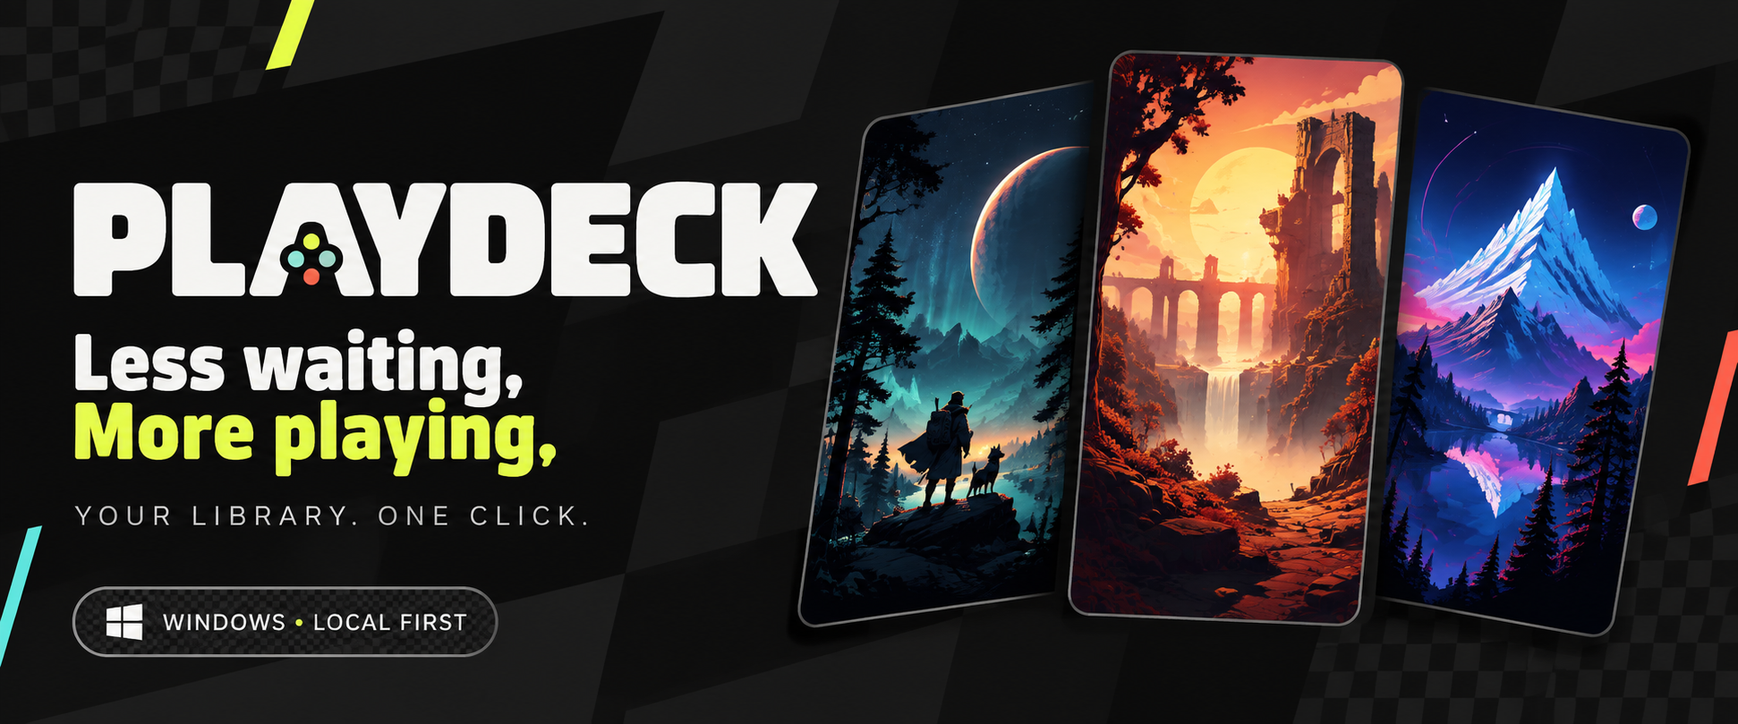
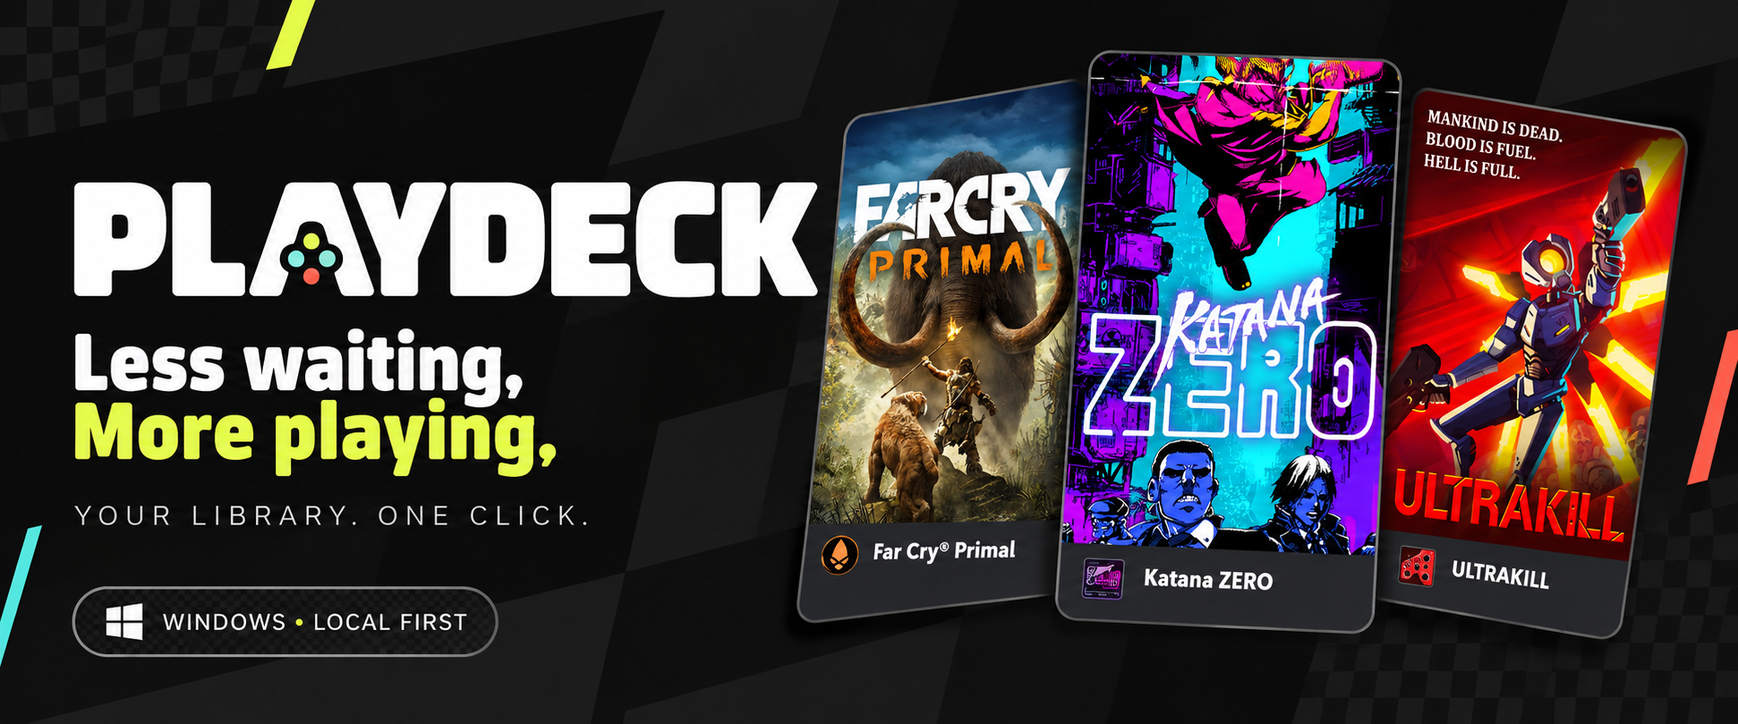
Present Playdeck 7.0.7 with actual library screenshots and refreshed release guide

diff --git a/README.md b/README.md
@@ -1,136 +1,179 @@
-<p align="center"><img src="docs/hero.png" alt="Playdeck — Less waiting. More playing." width="100%"></p>
+<p align="center"><img src="docs/hero.png" alt="Playdeck — Less waiting. More playing. Your library. One click." width="100%"></p>
 
 <p align="center">
-<a href="https://github.com/DopaLab/playdeck/releases/latest"><img src="https://img.shields.io/github/v/release/DopaLab/playdeck?style=for-the-badge&color=E1FF46&labelColor=222222" alt="Latest release"></a>
-<img src="https://img.shields.io/badge/Windows-x64-76DDD3?style=for-the-badge&labelColor=222222" alt="Windows x64">
-<img src="https://img.shields.io/badge/Native-WPF-FF957F?style=for-the-badge&labelColor=222222" alt="Native WPF">
-<a href="https://ko-fi.com/fgtranime"><img src="https://img.shields.io/badge/Support-Ko--fi-FF5E5B?style=for-the-badge&labelColor=222222" alt="Support on Ko-fi"></a>
+<a href="https://github.com/DopaLab/playdeck/releases/tag/v7.0.7"><img src="https://img.shields.io/badge/PLAYDECK-7.0.7-E1FF46?style=for-the-badge&labelColor=202025" alt="Playdeck 7.0.7"></a>
+<img src="https://img.shields.io/badge/WINDOWS-x64-76DDD3?style=for-the-badge&labelColor=202025" alt="Windows x64">
+<img src="https://img.shields.io/badge/BUILT-NATIVE-FF957F?style=for-the-badge&labelColor=202025" alt="Native Windows app">
+<a href="https://ko-fi.com/fgtranime"><img src="https://img.shields.io/badge/SUPPORT-KO--FI-C7B7FF?style=for-the-badge&labelColor=202025" alt="Support on Ko-fi"></a>
 </p>
 
-<h3 align="center">Your games deserve a better shelf.</h3>
-<p align="center">A personal Windows launcher with bold cover cards, instant favorites and local play history.<br>No account. No folder crawler. No always-running launcher.</p>
-<p align="center"><b><a href="https://github.com/DopaLab/playdeck/releases/latest/download/Playdeck-Setup-6.4.0.exe">↓ Install Playdeck</a> · <a href="https://github.com/DopaLab/playdeck/releases/latest/download/Playdeck-v6.4.0-win-x64.zip">Portable ZIP</a> · <a href="#your-library-in-motion">See the app</a></b></p>
+<h2 align="center">Your collection should make you want to play.</h2>
+<p align="center">Bold covers. One-click launching. A history worth keeping.<br><b>A personal Windows game launcher that gets out of the way when the game begins.</b></p>
+<p align="center"><a href="https://github.com/DopaLab/playdeck/releases/download/v7.0.7/Playdeck-Setup-7.0.7.exe"><img src="https://img.shields.io/badge/INSTALL_PLAYDECK-7.0.7-E1FF46?style=for-the-badge&labelColor=202025" alt="Download Playdeck 7.0.7"></a></p>
+<p align="center"><a href="#see-your-next-session">See it in action</a> · <a href="#the-whole-deck">Every feature</a> · <a href="#install-in-four-steps">Get started</a> · <a href="https://github.com/DopaLab/playdeck/issues">Report an issue</a></p>
 
-## Your library, in motion
+> **No Playdeck account. Local library and history. No always-running launcher.**
+> Add the games you choose, give them a beautiful home, and launch. A separate optional helper records the session and exits afterward.
 
-![Actual Playdeck library with demonstration games](docs/library.png)
+## See your next session
+
+<img src="docs/screenshots-707/library.png" alt="Installed Playdeck 7.0.7 with Far Cry Primal, Katana ZERO, Dungeons and Degenerate Gamblers, and Dice A Million" width="100%">
+<p align="center"><sub>Real installed Playdeck 7.0.7. The creator’s own library, profile and recorded activity—not demonstration data.</sub></p>
 
 <table>
-<tr><td width="50%"><b>01 / Make it yours</b><br>Right-click a game in Explorer → Add to Playdeck. Choose a Steam match for artwork, or paste your own cover. Your profile, your order, your library.</td><td width="50%"><b>02 / Get straight to the game</b><br>Click a card to launch. Use its three dots to edit. Pin favorites to a separate shelf and drag them into order. The launcher closes after a successful launch.</td></tr>
-<tr><td><b>03 / Keep your story</b><br>Playtime, 7/30/90-day comparisons, a 90-day calendar, focus ring, game rankings and session history. New sessions distinguish foreground from background time and split across midnight.</td><td><b>04 / Keep it recoverable</b><br>Archive without losing cached art or history. Trash cards for seven days, restore mistakes, or empty the trash. Installed game files are never deleted.</td></tr>
+<tr><td width="50%"><h3>🟡 A shelf, with personality</h3>Cover-first cards, a manually ordered Pinned shelf, expressive upright typography and dark illustrated backgrounds. Your games are the point of the interface.</td><td width="50%"><h3>🟢 One click to the good part</h3>Click a card to play. Three dots to edit. Playdeck closes after a successful game launch. Utilities have a separate shelf and keep the launcher open.</td></tr>
+<tr><td><h3>🟣 A collection with a memory</h3>First played, last played, focus time, session history and your journey through a game. Archive its story even after its installation is gone.</td><td><h3>🟠 A reason to come back</h3>Library news, patch notes, daily player reviews and related-game discovery. Cached editions keep browsing quiet between daily refreshes.</td></tr>
 </table>
 
-<details open><summary><b>Activity & favorites — actual application captures</b></summary>
+## Your playtime tells a story
 
-| Your play story | Your instant-play shelf |
-|:--:|:--:|
-| ![Activity](docs/activity.png) | ![Pinned games](docs/pinned.png) |
+<img src="docs/screenshots-707/activity.png" alt="Actual activity dashboard: 25.6 recorded hours, 45 sessions, daily playtime and foreground share" width="100%">
+
+**Your Play / Pulse** brings together 7-, 30- and 90-day views, daily bars, active days, game rankings, a play calendar and foreground/background time. **Your Journey** adds first and last launch dates, elapsed calendar time and an optional completion marker. Export sessions to CSV to explore the numbers yourself.
+
+The archive is a museum: clicking an archived card opens its journey. It does not try to start a missing executable, scan an uninstalled game or discard your history.
+
+## Stay close to the games you care about
+
+<img src="docs/screenshots-707/news.png" alt="Actual news page with a Boulder Smash player review, an Up Next queue and library news below" width="100%">
+
+| Channel | What you get |
+|:--|:--|
+| **For you** | A daily mix of player reviews, publisher updates and gaming headlines. |
+| **Library** | News for matched games in your collection; optionally include archived games. |
+| **Game updates** | Patch and update posts, with links to the original details. |
+| **Reviews** | Player perspectives on games to discover, with attribution and recommendations. |
+| **Gaming news** | Choose built-in RSS publications or add your own feed. |
+| **More Like This** | Games Steam relates to matched library titles, with artwork, descriptions, the connection and a store link. |
+
+Reviews rotate automatically. Hover or focus to pause; select a queued review to hold it for reading. Click the main review to expand the text. Stories open in your default browser; small game icons on update cards open the game’s store page.
+
+Saved stories appear first. Daily editions follow your **local calendar day**, with cached artwork and bounded requests. Publisher dates remain the publisher’s dates. Steam Spotlight has been removed.
+
+## Why choose Playdeck?
+
+For players with games across local folders and storefronts, Playdeck brings together a distinctive cover-first interface, direct launching, personal history and daily discovery in one native Windows app.
+
+| What matters | The Playdeck approach |
+|:--|:--|
+| **Start playing quickly** | Direct card launching, Explorer integration and a dedicated favorites shelf. |
+| **Stay in control** | Add what you choose. No broad folder crawler filling the library with helper executables. |
+| **Keep the visual identity** | Bold typography, cached covers, designed fallbacks and coordinated dark backgrounds. |
+| **Do less background work** | Native WPF, virtualized grids, reused decoded artwork, indexed history and cached online results. |
+| **Remember games after uninstalling** | Archived artwork, icons and activity survive independently of game files. |
+| **Keep your data yours** | Local storage, no Playdeck sign-in, no telemetry and no cloud library upload. |
+
+That combination is the reason to try it—not an untested claim of superiority over every launcher, game or PC.
+
+## The whole deck
+
+<details open>
+<summary><b>01 / Library, artwork & personal style</b></summary>
+
+- Add executables and shortcuts through **Explorer → Add to Playdeck**, the file picker or drag-and-drop.
+- Click cards to launch; use their three-dot menu to edit. Search without leaving the grid.
+- Continuous scrolling, compact/comfortable card sizes, and portrait/landscape cover support.
+- Sort by recent play, playtime, launch count, date added, release date, name or last published update/release.
+- Pin favorites to their own shelf and drag them into your preferred order.
+- Choose a Steam title match to apply its name and artwork. Completed lookups are cached.
+- Paste cover art from the clipboard or choose a local image. Unmatched games retain a designed fallback with their centered local icon.
+- Customize your profile picture and username. No level grind.
+- Eight dark typographic tab backgrounds; News adds restrained color and Activity adds analytical motifs.
+- Original artwork by default; optional **Soft white**, **Urban graffiti** and **Sunlight glass** finishes.
+- Compact playtime and last-played labels cover hours, days, months and years.
+- Square opaque icons receive rounded corners; shaped icons keep their outline.
 
 </details>
 
-<details><summary><b>Fallback artwork, settings & title matching</b></summary>
+<details>
+<summary><b>02 / Sessions, activity & your journey</b></summary>
 
-![Cards without downloaded covers](docs/fallback.png)
-
-| Settings | Choose the right game |
-|:--:|:--:|
-| ![Settings](docs/settings.png) | ![Steam matching](docs/matching.png) |
+- Optional tracking for games launched through Playdeck: first/last launch, session count and duration.
+- Foreground/background time, 7/30/90-day views, daily bars, active days, rankings and a play calendar.
+- Per-game journey, elapsed calendar span and an optional completion marker.
+- Separate session helper: the launcher can close while recording continues; the helper exits after the tracked game finishes.
+- Long sleep-gap exclusion, periodic recovery checkpoints and session CSV export.
+- Disable observation entirely while retaining existing history.
+- **Software** shelf for tools/utilities. Their launches keep Playdeck open, create no game sessions and stay out of game analytics and game shelves.
 
 </details>
 
-The banner is AI-generated promotional art. Application images are real WPF captures with demonstration data; game artwork belongs to its respective owners.
+<details>
+<summary><b>03 / News, discovery & update awareness</b></summary>
+
+- Publisher news and patch notes for matched library games, with optional archive inclusion.
+- Daily player reviews with attribution, recommendations, full-image artwork and an expandable reader.
+- Automatic rotation, hover/focus pause and click-to-hold review selection.
+- Configurable gaming RSS sources, custom feeds and a designed thumbnail fallback.
+- **More Like This** recommendations related to owned games, with descriptions and store links.
+- Local-day editions, disk caches and in-memory reuse between tab visits.
+- Mature-content screening; third-party feeds cannot be guaranteed perfectly classified.
+- Compact update-date chips and **Last updated / released** sorting.
+- Compare publisher dates with your installation baseline. **Mark updated** renews that baseline without erasing play history.
+- Secondary version tools: manual values, executable/local-file evidence, Steam identity/build evidence where available, and supported publisher/GitHub release sources.
+- Open original announcements to inspect changes. Uncertain comparisons remain uncertain.
+
+</details>
+
+<details>
+<summary><b>04 / Preservation, recovery & everyday control</b></summary>
+
+- Archive artwork, icons and activity independently of an installation. Archived cards open the journey and are not launched or scanned for installed files.
+- Explicitly restore an archived game to the active library.
+- Remove cards through selection mode or Delete-click. Recover them from Trash for seven days, or empty Trash.
+- Reset Library requires typing **RESET**; cards move to recoverable Trash. Game files are untouched.
+- Open a game’s exact saved file location in Explorer.
+- **Update game location** reconnects a moved executable/shortcut while keeping card identity, art and history.
+- Per-user installer, optional desktop shortcut, Start menu entry and Explorer integration.
+- Standard Windows uninstall; personal library data is intentionally retained.
+- Built-in Ko-fi support link.
+
+</details>
 
 ## Built to do less work
 
-- **Continuous, virtualized scrolling:** nearby cards are drawn on lightweight surfaces; overlapping rows survive updates and up to 72 nearby controls are reused (or more if needed for the visible viewport). Idle work prewarms adjacent rows.
-- **Decoded artwork reuse:** frozen bitmaps in a bounded 48 MiB / 160-entry LRU cache. File changes invalidate entries. This is a cache budget, not a total RAM promise.
-- **Indexed history:** cards look up their game's sessions instead of repeatedly scanning the entire history.
-- **Quieter UI:** focus changes reload history only when the session directory changes; resizing coalesces expensive rebuilds.
-- **No idle tracker:** a separate helper runs during a launched game, checkpoints every 30 seconds, and exits afterward. No boot service or scheduled task.
-- **Cached metadata:** completed lookups and failures are remembered; manual Steam search results are cached for one day.
+The grid realizes nearby cards instead of constructing the whole library. Overlapping rows reuse controls; cover art uses frozen decoded bitmaps in a **48 MiB / 160-entry LRU cache**. History is indexed by game and tab backgrounds use a bounded brush cache. These are implementation budgets, not a total-RAM promise.
 
-Historical v6.0 → v6.1 synthetic test (see the v6.2 follow-up in the performance document): 2,000 games, 20,000 sessions, eight preloaded covers, five refreshes and 100 scroll steps.
+Online lookups cache results and failures. News refreshes by local day; release/version checks use their own cached schedules and provider backoff. There is no boot service, scheduled tracking task or permanently running Playdeck launcher. The optional observer exists for launched game sessions.
 
-| WPF workload | v6.0 | v6.1 |
-|---|---:|---:|
-| Median library refresh | 130 ms | 40 ms |
-| 95th-percentile scroll layout update | 23.6 ms | 12.3 ms |
-| Managed allocation during workload | 29.8 MiB | 15.1 MiB |
-| Repeated image decodes | 0 | 0 |
-| Maximum realized cards | 25 | 25 |
+Historical measurements are in [Performance](docs/PERFORMANCE.md). They are not benchmarks of 7.0.7 or universal frame-rate, memory or launch-time guarantees.
 
-Local synthetic layout measurements, **not GPU frame rates or universal guarantees**. Median scroll updates were 1.2 ms and 1.0 ms. Working-set snapshots were 147 and 151 MiB: this change reduces rendering work and allocation churn, not measured total RAM. See [method and raw results](docs/PERFORMANCE.md).
+## Install in four steps
 
-## Published update dates first
+1. Download **[Playdeck-Setup-7.0.7.exe](https://github.com/DopaLab/playdeck/releases/download/v7.0.7/Playdeck-Setup-7.0.7.exe)**. Windows x64; .NET is included.
+2. Install for your Windows account. Choose whether to add a desktop shortcut.
+3. Right-click a game executable or shortcut → **Add to Playdeck**. Windows 11 may place this under **Show more options**. The in-app **Add game** button also works.
+4. Check the title/artwork and click the card to play.
 
-Cards now show compact **UPD** dates from publisher update posts. **REL** identifies the original release date when no update is known. Choose **Last updated / released** to sort the library; manually ordered pins stay in their own order.
+Upgrade with the installer. Uninstall through **Windows Settings → Apps**. Your library, profile, artwork and history remain in `%LOCALAPPDATA%\Playdeck`. This community build is unsigned; the release includes its SHA-256 checksum.
 
-In **Settings → Update Radar**, choose **Update date**, **Version**, or **Off**. Dates refresh at most once per 24 hours per source, including empty results and failures. Fetching dates does not scan executables or require an installed version number. Click a chip for the source post and notes. Publisher dates describe online announcements, not your local installation.
+**7.0.7 validation:** 154 offline regression checks, 133 installed-app UI checks, plus fresh-install, upgrade, uninstall and real-library-preservation checks passed. Screenshots above were captured separately from the creator’s actual installation. Tests do not establish compatibility with every commercial game.
 
-Build-date comparison is optional: confirm a valid `YYYY.MM.DD` label and the matching PC source. A later post gives a possible-update hint; dates never prove a copy is current. Version-number tools remain secondary.
+## Good to know
 
-**Settings → Playtime tracking** can disable observation entirely: the game starts directly, Playdeck closes, and no tracking helper is started. Existing statistics stay saved. The observer now excludes unrelated child processes outside the game's executable directory and runs below normal priority after launching the game. This does not establish or fix the cause of a reported commercial-game/system crash.
+<details>
+<summary><b>Tracking, updates and privacy</b></summary>
 
-![Published update details with demonstration data](docs/update-date.png)
+Only games launched through Playdeck are tracked. Process lifetime includes pauses; foreground time means the game owned the foreground window, not proof of active input. Sampling/checkpoints make durations approximate. Sleep gaps are excluded; interrupted sessions can lose time since the last checkpoint. Protected/elevated games, anti-cheat, reused storefront processes and short bootstrap programs can need a manually selected tracking executable. Observation can be disabled.
 
-## Compare your local copy with published releases
+In update-date mode, green means no known publisher post is newer than your confirmed baseline; yellow asks you to review a newer post. **Mark updated** records your confirmation. Playdeck does not download patches or verify every game’s files. Version comparisons depend on compatible local and publisher evidence.
 
-Click the tiny version chip, press **V**, or open **Settings → Version Watch**.
+Artwork matching can send a title or Steam AppID. Feeds and recommendations contact Steam, selected publishers/CDNs, configured RSS sources and supported release providers. Optional legacy build checks use SteamCMD’s third-party API. Your library database and session history are not uploaded. Online options can be disabled. Games may still require their own storefront accounts.
 
-**Enter your installed version → confirm the PC release source → Save & compare.** Playdeck independently fetches numbered publisher announcements, even for games installed outside Steam. Manual installed versions now work with online lookups. You can also confirm a local version file, or choose an official GitHub repository for games without a Steam page.
+Use **Update game location** to reconnect moved games; arbitrary disk moves are not automatically discovered. Trash affects launcher records, not installed games; artwork, backups or raw history may remain, so it is not secure erasure.
 
-The dialog places **Your copy** beside **Published release**, with the announcement date, release-notes link, last check and next check. Changing the release source does not alter the card's title or artwork.
+</details>
 
-Small checkered chips stay compact: **yellow** for a confirmed newer numbered release, **green** for a recent match, **grey** when evidence needs review. A known update stays yellow when cached; an expired match loses green. A newer unnumbered patch prevents an older numbered release from claiming you are current.
+<details>
+<summary><b>About the public source snapshot</b></summary>
 
-Successful, empty and failed online results are cached for at least 24 hours. Daily checks include manually entered versions, resume when the launcher regains focus, and pause during tracked gaming. No resident version service.
+7.0.7 is an **installer release**. The newer application source is not published. Existing public code and historical build instructions remain as an older snapshot; they do not reproduce 7.0.7. GitHub’s automatic “Source code” downloads contain that repository snapshot, not the private 7.0.7 source. See the [license for existing public code](LICENSE) and [third-party notices](THIRD_PARTY_NOTICES.md).
 
-This is evidence-based release tracking, not a universal update database. Publisher feeds can omit numbers or use different labels across editions. Those cases show what is missing and offer release notes or a manual latest-version note. [Sources, limits and real-library coverage](docs/VERSIONS.md).
+</details>
 
-![Guided version review with demonstration evidence](docs/version-guide.png)
+---
 
-## Install & play
-
-1. Download the installer from [Releases](https://github.com/DopaLab/playdeck/releases/latest). Windows x64; the .NET runtime is included.
-2. Install for your Windows account. Start menu and Explorer integration are included; the desktop shortcut is optional.
-3. Right-click a game executable or shortcut → **Add to Playdeck**. On Windows 11, use **Show more options**. File picking and drag-and-drop also work.
-4. Review the name, choose a cover match if needed, and click its card to play.
-
-Uninstall through **Windows Settings → Apps**. Data in `%LOCALAPPDATA%\Playdeck` is intentionally retained, including during upgrades. The portable ZIP uses that same location. This is an **unsigned** community build; release hashes are supplied for integrity checking.
-
-## A few useful details
-
-| Action | How |
-|---|---|
-| Edit a card | Three dots in its upper corner |
-| Paste a cover | Ctrl+V in the editor |
-| Correct a title / find artwork | Find cover or Choose Steam match; select a result to apply it |
-| Rearrange favorites | Drag cards in Pinned; other library sorts work independently |
-| Remove junk cards | Select mode, or hold Delete while clicking a card |
-| Start a fresh library | Settings; old cards move to recoverable trash |
-| Export history | Settings → CSV, including focus time and session status |
-| Customize profile | Click the player badge |
-| Gaming utility / mod manager | Settings → Manage tools, or Mark as tool in its card editor |
-
-### Tracking & privacy
-
-**Tool mode** opens utilities independently, keeps Playdeck open and creates no play sessions. Existing tool history is retained but excluded from game analytics. Square opaque game icons receive rounded corners; transparent or shaped icons keep their outlines.
-
-Only games launched **through Playdeck** are tracked. Process lifetime includes pauses; foreground time means the game owned the foreground window, not proof of active input. Sampling is every two seconds, so durations are approximate. Sleep gaps of ten seconds or more are excluded. Interrupted runs retain the last checkpoint, potentially losing about 30 seconds. Older sessions keep their original totals and use their start date in daily charts.
-
-Exact executable identity and descendants help follow ordinary launcher handoffs. Very short bootstrap processes, elevated/protected games, anti-cheat and storefront reuse may require setting the actual tracking executable. Commercial-game compatibility is not universal. Launch-only and undetected sessions do not invent playtime.
-
-Library, profile, artwork and history live locally. Metadata lookup contacts Steam services/CDNs; release checks send an AppID to Valve publisher news or a repository name to GitHub. Legacy Steam build checks use the third-party SteamCMD API. Online access can be disabled in settings. No telemetry, cloud account or library upload. Empty Trash removes card records; raw sessions, artwork and backups may remain. It is not secure erasure.
-
-## Build it yourself
-
-Requires Windows, [.NET 10 SDK](https://dotnet.microsoft.com/download/dotnet/10.0), and [Inno Setup 6.7+](https://jrsoftware.org/isinfo.php) for the installer.
-
-```powershell
-./build.ps1            # Self-contained portable build + regression tests
-./build.ps1 -Installer # Also compile the installer
-```
-
-The UI and tracker publish separately. Only tracker-specific binaries are copied into the app directory, preserving WPF's WindowsBase runtime. See [validation](docs/VALIDATION.md), [changelog](CHANGELOG.md), [MIT code license](LICENSE) and [asset notices](THIRD_PARTY_NOTICES.md).
-
-<p align="center"><b>Made for the moment you actually want to play.</b><br><a href="https://ko-fi.com/fgtranime">☕ Support development on Ko-fi</a> · <a href="https://github.com/DopaLab/playdeck/issues">Report a bug</a></p>
+<h2 align="center">Made for the moment you actually want to play.</h2>
+<p align="center">If Playdeck earns a place on your desktop, <b>give the project a star</b>.<br>Share it with a friend whose games deserve a better home, or help shape the next release with a useful bug report.</p>
+<p align="center"><a href="https://github.com/DopaLab/playdeck/releases/tag/v7.0.7">↓ Get Playdeck</a> · <a href="https://github.com/DopaLab/playdeck/issues">Report a bug</a> · <a href="https://ko-fi.com/fgtranime">☕ Support on Ko-fi</a></p>
+<p align="center"><sub>Hero: AI-assisted promotional composition using cover artwork from the creator’s actual library. Application screenshots: unretouched captures of installed 7.0.7. Game art, names, reviews and publisher content belong to their respective owners; no endorsement is implied.</sub></p>
